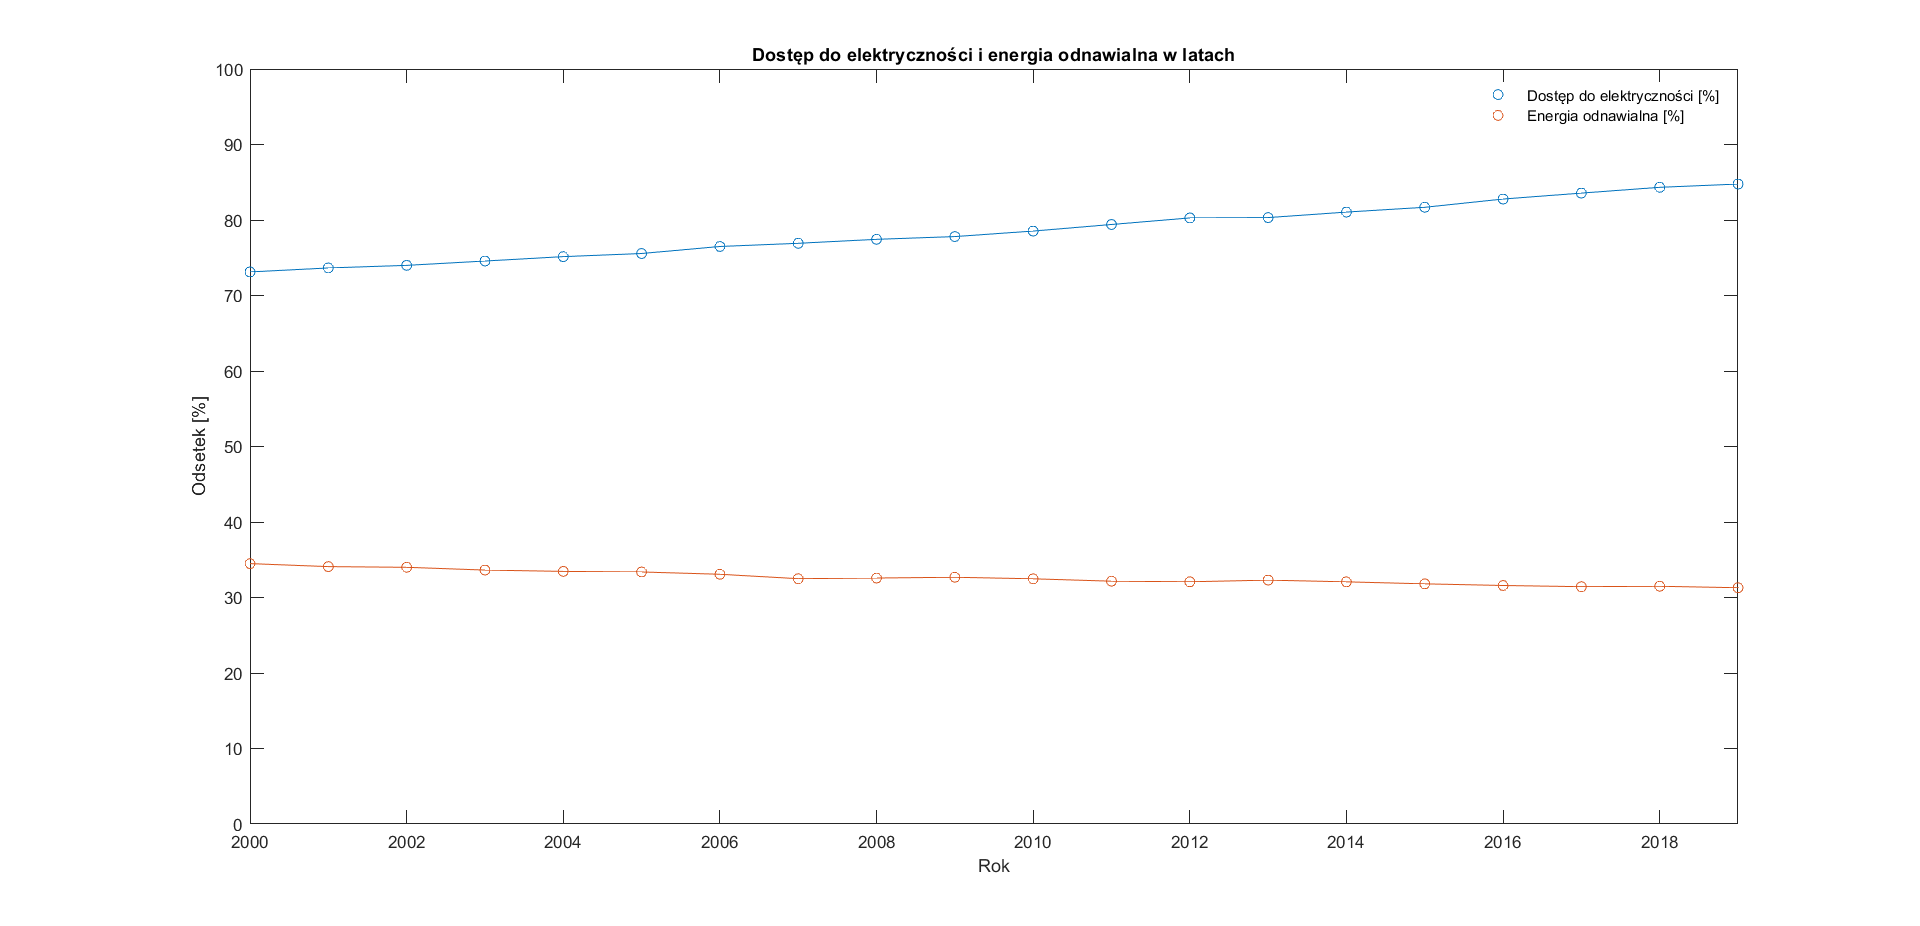
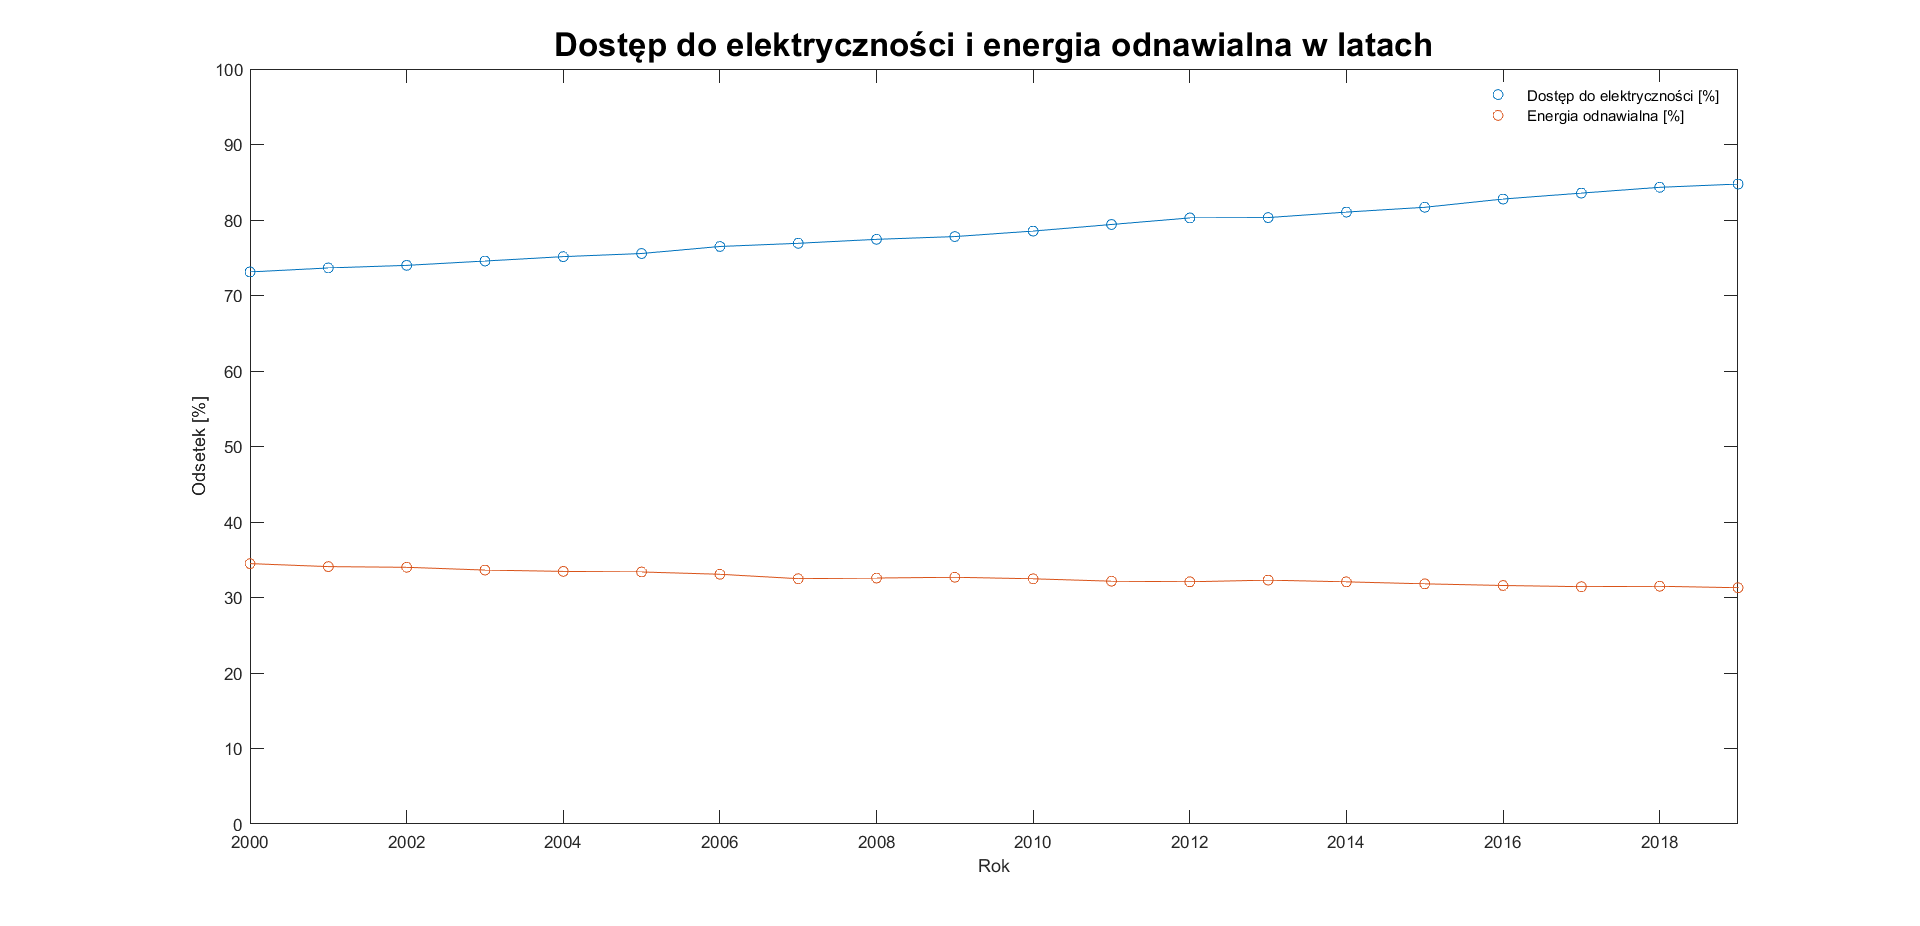
Energy - CO2

Changed region(s): [[0.2812, 0.0302, 0.75, 0.0907]]

diff --git a/PROJEKT1_2/energy/energy_WZ.m b/PROJEKT1_2/energy/energy_WZ.m
@@ -51,7 +51,7 @@ xlim([0, max(data_table.gdp_per_capita)]);
 ylim([0, max(data_table.ElectricityFromFossilFuels_TWh_)]);
 xlabel('PKB per capita');
 ylabel('elektryczność wytwarzana z paliw kopalnych [TWh]');
-title('Elektryczność z paliw kopalnych vs PKB per capita w roku 2000');
+title('Elektryczność z paliw kopalnych vs PKB per capita w roku 2000', 'FontSize', 20);
 
 % Create slider
 slider = uicontrol('Style', 'slider', 'Min', min(data_table.Year), 'Max', max(data_table.Year),...
@@ -74,7 +74,7 @@ set(gca, 'XTick', 1:20, 'XTickLabel', top_countries.Entity);
 ylim([0, max(data_table.TotalEnergy_TWh_)]);
 xlabel('Kraj');
 ylabel('Elektryczność [TWh]');
-title('Rozkład elektryczności według źródła vs kraj (Top 20) w roku 2000');
+title('Rozkład elektryczności według źródła vs kraj (Top 20) w roku 2000', 'FontSize', 20);
 legend('paliwa kopalne', 'atom', 'źródła odnawialne', 'Location', 'northeast');
 
 % Create dropdown menu for year selection
@@ -100,7 +100,7 @@ set(gca, 'XTick', 1:20, 'XTickLabel', top_countries.Entity);
 ylim([0, max(data_table.FinancialFlowsToDevelopingCountries_US__)]);
 xlabel('Kraj');
 ylabel('Wparcie finansowe [$]');
-title('Wsparcie finansowe dla państw rozwijających się na projekty czystej energii vs kraj (Top 20) w roku 2000');
+title('Wsparcie finansowe dla państw rozwijających się na projekty czystej energii vs kraj (Top 20) w roku 2000', 'FontSize', 20);
 
 % Create dropdown menu for year selection
 years = unique(data_table.Year);
@@ -110,17 +110,42 @@ dropdown = uicontrol('Style', 'popupmenu', 'String', cellstr(num2str(years)), 'P
 uicontrol('Style', 'pushbutton', 'String', '<', 'Position', [10, 10, 30, 20], 'Callback', {@decreaseYear, dropdown, data_table, @update_plot_bar2});
 uicontrol('Style', 'pushbutton', 'String', '>', 'Position', [90, 10, 30, 20], 'Callback', {@increaseYear, dropdown, data_table, @update_plot_bar2});
 % -------------------------------------------------------------------------
+% Emisja CO2 vs kraj (Top 20) na przestrzeni lat
+figure;
+% Initial plot
+idx = data_table.Year == 2000 & ~isnan(data_table.Value_co2_emissions_kt_by_country);
+% Sort data_table based on energy consumption
+sorted_data = sortrows(data_table(idx,:), 'Value_co2_emissions_kt_by_country', 'descend');
+% Select top 20 countries
+top_countries = sorted_data(1:20, :);
+disp(top_countries)
+
+bar(top_countries.Value_co2_emissions_kt_by_country);
+set(gca, 'XTick', 1:20, 'XTickLabel', top_countries.Entity);
+ylim([0, max(data_table.Value_co2_emissions_kt_by_country)]);
+xlabel('Kraj');
+ylabel('Emisja CO2 [kT]');
+title('Emisja CO2 vs kraj (Top 20) w roku 2000', 'FontSize', 20);
+
+% Create dropdown menu for year selection
+years = unique(data_table.Year);
+dropdown = uicontrol('Style', 'popupmenu', 'String', cellstr(num2str(years)), 'Position', [40, 10, 50, 20], 'Callback', {@update_plot_bar3, data_table});
+
+% Create arrow buttons for changing year
+uicontrol('Style', 'pushbutton', 'String', '<', 'Position', [10, 10, 30, 20], 'Callback', {@decreaseYear, dropdown, data_table, @update_plot_bar3});
+uicontrol('Style', 'pushbutton', 'String', '>', 'Position', [90, 10, 30, 20], 'Callback', {@increaseYear, dropdown, data_table, @update_plot_bar3});
+% -------------------------------------------------------------------------
 % Zależność dostępu do elektryczności od gęstości zaludnienia - wykres punktowy
 figure;
 idx = data_table.Year == 2020 & data_table.AccessToElectricity__OfPopulation_ < 100 & ~isnan(data_table.AccessToElectricity__OfPopulation_) & ~isnan(data_table.Density_n_P_Km2_);
 x = data_table.Density_n_P_Km2_(idx);
 y = data_table.AccessToElectricity__OfPopulation_(idx);
-scatter(x, y, 'o', 'filled', 'SizeData', 10);
+scatter(x, y, 'o', 'filled', 'SizeData', 30);
 xlim([0, max(x)]);
 ylim([0, max(y)]);
 xlabel('Gęstość zaludnienia [osoba/km^2]');
 ylabel('Dostęp do elektryczności');
-title('Zależność dostępu do elektryczności od gęstości zaludnienia');
+title('Zależność dostępu do elektryczności od gęstości zaludnienia', 'FontSize', 20);
 % -------------------------------------------------------------------------
 yearly_means = grpstats(data_table(:, 2:end), 'Year', 'mean');
 
@@ -138,7 +163,7 @@ xlim([2000, 2019]);
 ylim([0, 100]);
 xlabel('Rok');
 ylabel('Odsetek [%]')
-title('Dostęp do elektryczności i energia odnawialna w latach');
+title('Dostęp do elektryczności i energia odnawialna w latach', 'FontSize', 20);
 legend('Location', 'northeast');
 
 
@@ -153,7 +178,7 @@ function update_plot_bubble1(source, ~, data_table)
     ylim([0, max(data_table.ElectricityFromFossilFuels_TWh_)]);
     xlabel('PKB per capita');
     ylabel('elektryczność wytwarzana z paliw kopalnych (węgiel, ropa naftowa, gaz ziemny) [TWh]');
-    title('Elektryczność z paliw kopalnych vs PKB per capita w roku ', num2str(year));
+    title('Elektryczność z paliw kopalnych vs PKB per capita w roku ', num2str(year), 'FontSize', 20);
 end
 % -------------------------------------------------------------------------
 % Callback function to update plot bar 1
@@ -173,7 +198,7 @@ function update_plot_bar1(source, ~, data_table)
     ylim([0, max(data_table.TotalEnergy_TWh_)]);
     xlabel('Kraj');
     ylabel('Elektryczność [TWh]');
-    title('Rozkład elektryczności według źródła vs kraj (Top 20) w roku ', num2str(selected_year));
+    title('Rozkład elektryczności według źródła vs kraj (Top 20) w roku ', num2str(selected_year), 'FontSize', 20);
     legend('paliwa kopalne', 'atom', 'źródła odnawialne', 'Location', 'northeast');
 end
 % -------------------------------------------------------------------------
@@ -193,7 +218,26 @@ function update_plot_bar2(source, ~, data_table)
     ylim([0, max(data_table.FinancialFlowsToDevelopingCountries_US__)]);
     xlabel('Kraj');
     ylabel('Wsparcie finansowe [$]');
-    title('Wsparcie finansowe dla państw rozwijających się na projekty czystej energii vs kraj (Top 20) w roku ', num2str(selected_year));
+    title('Wsparcie finansowe dla państw rozwijających się na projekty czystej energii vs kraj (Top 20) w roku ', num2str(selected_year), 'FontSize', 20);
+end
+% -------------------------------------------------------------------------
+% Callback function to update plot bar 3
+function update_plot_bar3(source, ~, data_table)
+    year_idx = get(source, 'Value');  % Get index of selected year
+    selected_year = unique(data_table.Year(year_idx));  % Get selected year
+    idx = data_table.Year == selected_year & ~isnan(data_table.Value_co2_emissions_kt_by_country);
+    % Sort data_table based on energy consumption
+    sorted_data = sortrows(data_table(idx,:), 'Value_co2_emissions_kt_by_country', 'descend');
+    % Select top 20 countries
+    top_countries = sorted_data(1:20, :);
+    % disp(top_countries)
+    
+    bar(top_countries.Value_co2_emissions_kt_by_country);
+    set(gca, 'XTick', 1:20, 'XTickLabel', top_countries.Entity);
+    ylim([0, max(data_table.Value_co2_emissions_kt_by_country)]);
+    xlabel('Kraj');
+    ylabel('Emisja CO2 [kT]');
+    title('Emisja CO2 vs kraj (Top 20) w roku ', num2str(selected_year), 'FontSize', 20);
 end
 % -------------------------------------------------------------------------
 % utility functions for arrows

diff --git a/PROJEKT1_2/energy/presentation_script.m b/PROJEKT1_2/energy/presentation_script.m
@@ -51,7 +51,7 @@ xlim([0, max(data_table.gdp_per_capita)]);
 ylim([0, max(data_table.ElectricityFromFossilFuels_TWh_)]);
 xlabel('PKB per capita');
 ylabel('elektryczność wytwarzana z paliw kopalnych [TWh]');
-title('Elektryczność z paliw kopalnych vs PKB per capita w roku 2000');
+title('Elektryczność z paliw kopalnych vs PKB per capita w roku 2000', 'FontSize', 20);
 
 % Create slider
 slider = uicontrol('Style', 'slider', 'Min', min(data_table.Year), 'Max', max(data_table.Year),...
@@ -74,7 +74,7 @@ set(gca, 'XTick', 1:20, 'XTickLabel', top_countries.Entity);
 ylim([0, max(data_table.TotalEnergy_TWh_)]);
 xlabel('Kraj');
 ylabel('Elektryczność [TWh]');
-title('Rozkład elektryczności według źródła vs kraj (Top 20) w roku 2000');
+title('Rozkład elektryczności według źródła vs kraj (Top 20) w roku 2000', 'FontSize', 20);
 legend('paliwa kopalne', 'atom', 'źródła odnawialne', 'Location', 'northeast');
 
 % Create dropdown menu for year selection
@@ -100,7 +100,7 @@ set(gca, 'XTick', 1:20, 'XTickLabel', top_countries.Entity);
 ylim([0, max(data_table.FinancialFlowsToDevelopingCountries_US__)]);
 xlabel('Kraj');
 ylabel('Wparcie finansowe [$]');
-title('Wsparcie finansowe dla państw rozwijających się na projekty czystej energii vs kraj (Top 20) w roku 2000');
+title('Wsparcie finansowe dla państw rozwijających się na projekty czystej energii vs kraj (Top 20) w roku 2000', 'FontSize', 20);
 
 % Create dropdown menu for year selection
 years = unique(data_table.Year);
@@ -110,7 +110,31 @@ dropdown = uicontrol('Style', 'popupmenu', 'String', cellstr(num2str(years)), 'P
 uicontrol('Style', 'pushbutton', 'String', '<', 'Position', [10, 10, 30, 20], 'Callback', {@decreaseYear, dropdown, data_table, @update_plot_bar2});
 uicontrol('Style', 'pushbutton', 'String', '>', 'Position', [90, 10, 30, 20], 'Callback', {@increaseYear, dropdown, data_table, @update_plot_bar2});
 % -------------------------------------------------------------------------
+% Emisja CO2 vs kraj (Top 20) na przestrzeni lat
+figure;
+% Initial plot
+idx = data_table.Year == 2000 & ~isnan(data_table.Value_co2_emissions_kt_by_country);
+% Sort data_table based on energy consumption
+sorted_data = sortrows(data_table(idx,:), 'Value_co2_emissions_kt_by_country', 'descend');
+% Select top 20 countries
+top_countries = sorted_data(1:20, :);
+disp(top_countries)
 
+bar(top_countries.Value_co2_emissions_kt_by_country);
+set(gca, 'XTick', 1:20, 'XTickLabel', top_countries.Entity);
+ylim([0, max(data_table.Value_co2_emissions_kt_by_country)]);
+xlabel('Kraj');
+ylabel('Emisja CO2 [kT]');
+title('Emisja CO2 vs kraj (Top 20) w roku 2000', 'FontSize', 20);
+
+% Create dropdown menu for year selection
+years = unique(data_table.Year);
+dropdown = uicontrol('Style', 'popupmenu', 'String', cellstr(num2str(years)), 'Position', [40, 10, 50, 20], 'Callback', {@update_plot_bar3, data_table});
+
+% Create arrow buttons for changing year
+uicontrol('Style', 'pushbutton', 'String', '<', 'Position', [10, 10, 30, 20], 'Callback', {@decreaseYear, dropdown, data_table, @update_plot_bar3});
+uicontrol('Style', 'pushbutton', 'String', '>', 'Position', [90, 10, 30, 20], 'Callback', {@increaseYear, dropdown, data_table, @update_plot_bar3});
+% -------------------------------------------------------------------------
 
 
 % -------------------------------------------------------------------------
@@ -123,7 +147,7 @@ function update_plot_bubble1(source, ~, data_table)
     ylim([0, max(data_table.ElectricityFromFossilFuels_TWh_)]);
     xlabel('PKB per capita');
     ylabel('elektryczność wytwarzana z paliw kopalnych (węgiel, ropa naftowa, gaz ziemny) [TWh]');
-    title('Elektryczność z paliw kopalnych vs PKB per capita w roku ', num2str(year));
+    title('Elektryczność z paliw kopalnych vs PKB per capita w roku ', num2str(year), 'FontSize', 20);
 end
 % -------------------------------------------------------------------------
 % Callback function to update plot bar 1
@@ -143,7 +167,7 @@ function update_plot_bar1(source, ~, data_table)
     ylim([0, max(data_table.TotalEnergy_TWh_)]);
     xlabel('Kraj');
     ylabel('Elektryczność [TWh]');
-    title('Rozkład elektryczności według źródła vs kraj (Top 20) w roku ', num2str(selected_year));
+    title('Rozkład elektryczności według źródła vs kraj (Top 20) w roku ', num2str(selected_year), 'FontSize', 20);
     legend('paliwa kopalne', 'atom', 'źródła odnawialne', 'Location', 'northeast');
 end
 % -------------------------------------------------------------------------
@@ -163,7 +187,26 @@ function update_plot_bar2(source, ~, data_table)
     ylim([0, max(data_table.FinancialFlowsToDevelopingCountries_US__)]);
     xlabel('Kraj');
     ylabel('Wsparcie finansowe [$]');
-    title('Wsparcie finansowe dla państw rozwijających się na projekty czystej energii vs kraj (Top 20) w roku ', num2str(selected_year));
+    title('Wsparcie finansowe dla państw rozwijających się na projekty czystej energii vs kraj (Top 20) w roku ', num2str(selected_year), 'FontSize', 20);
+end
+% -------------------------------------------------------------------------
+% Callback function to update plot bar 3
+function update_plot_bar3(source, ~, data_table)
+    year_idx = get(source, 'Value');  % Get index of selected year
+    selected_year = unique(data_table.Year(year_idx));  % Get selected year
+    idx = data_table.Year == selected_year & ~isnan(data_table.Value_co2_emissions_kt_by_country);
+    % Sort data_table based on energy consumption
+    sorted_data = sortrows(data_table(idx,:), 'Value_co2_emissions_kt_by_country', 'descend');
+    % Select top 20 countries
+    top_countries = sorted_data(1:20, :);
+    % disp(top_countries)
+    
+    bar(top_countries.Value_co2_emissions_kt_by_country);
+    set(gca, 'XTick', 1:20, 'XTickLabel', top_countries.Entity);
+    ylim([0, max(data_table.Value_co2_emissions_kt_by_country)]);
+    xlabel('Kraj');
+    ylabel('Emisja CO2 [kT]');
+    title('Emisja CO2 vs kraj (Top 20) w roku ', num2str(selected_year), 'FontSize', 20);
 end
 % -------------------------------------------------------------------------
 % utility functions for arrows
